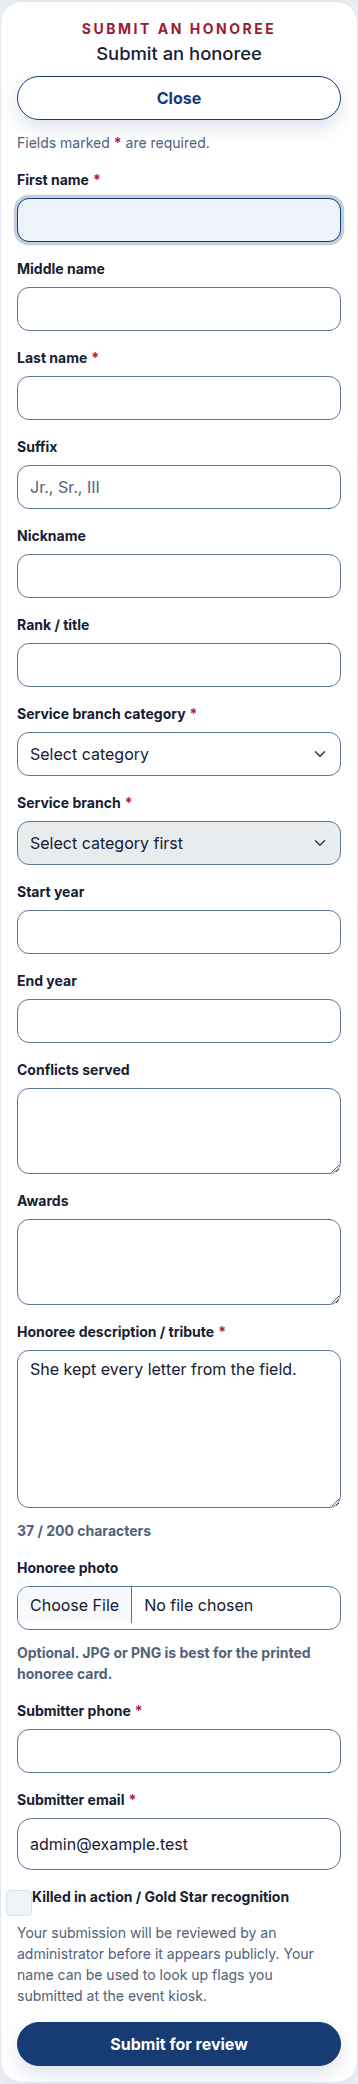
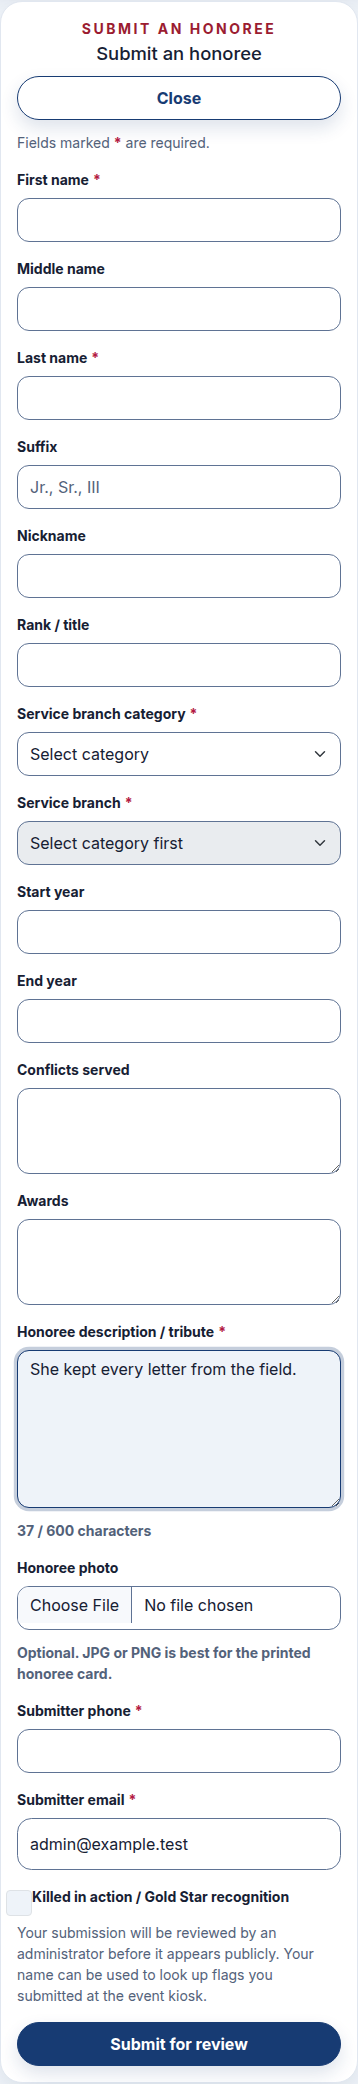
Set the honoree bio limit from all-caps prose.
600 is the largest multiple of 50 that fits all-caps prose with long words in 24 lines at 12pt, and it stays under the 650-character shrink. A word wider than the card box is wrapped when the card is drawn.

diff --git a/frontend/src/honoreeBio.ts b/frontend/src/honoreeBio.ts
@@ -1,5 +1,5 @@
 // Keep this equal to PFOH.Api.Models.HonoreeBioLimits.MaxLength.
-export const HONOREE_BIO_MAX_LENGTH = 200;
+export const HONOREE_BIO_MAX_LENGTH = 600;
 
 export function honoreeBioLimitMessage(max = HONOREE_BIO_MAX_LENGTH) {
   return `Bio must be ${max} characters or fewer.`;

diff --git a/backend/PFOH.Api.Tests/HonoreeCardPdfLayoutTests.cs b/backend/PFOH.Api.Tests/HonoreeCardPdfLayoutTests.cs
@@ -189,78 +189,81 @@ public class HonoreeCardPdfLayoutTests
         return ReadRuns(pdf);
     }
 
-    [Fact]
-    public void Bio_of_exactly_the_limit_in_worst_case_wide_characters_fits_the_card()
-    {
-        var tribute = WorstCaseWideBio(HonoreeBioLimits.MaxLength);
-        Assert.Equal(HonoreeBioLimits.MaxLength, tribute.Length);
-        Assert.False(char.IsWhiteSpace(tribute[^1]));
+    private const string AllCapsProse =
+        "THE FAMILY KEPT EVERY LETTER FROM THE FIELD AND READ THEM ON THE PORCH. ";
 
-        var pdf = RenderFullHeaderBytes(tribute);
-        var runs = ReadRuns(pdf);
-        var bio = BioRuns(runs, tribute);
-        Assert.Equal(tribute, string.Join(" ", bio.OrderByDescending(run => run.Y).ThenBy(run => run.X).Select(run => run.Text)));
-        Assert.All(bio, run => Assert.Equal(BioLeft, run.X, 1));
-        Assert.InRange(bio.Select(run => Math.Round(run.Y, 1)).Distinct().Count(), 1, 24);
-
-        using var measure = NewMeasure();
-        var font = new XFont("DejaVu Sans", 12, XFontStyle.Regular);
-        Assert.All(bio, run => Assert.True(measure.Gfx.MeasureString(run.Text, font).Width <= 214.5, run.Text));
-
-        var sizes = FontSizes(pdf);
-        Assert.Contains(sizes, size => size is "12" or "12.0" or "12.00");
-        Assert.DoesNotContain(sizes, size => size is "10.4" or "10.40" or "9.6" or "8.8" or "8.2" or "8.20");
-    }
+    private const string AllCapsHonors =
+        "SERGEANT JAMES ALLEY RECEIVED THE DISTINGUISHED FLYING CROSS, PURPLE HEART, AND BRONZE STAR. CAPTAIN SALVADOR GUZMAN SERVED WITH THE UNITED STATES ARMY AIR CORPS BESIDE LIEUTENANT MARGARET COLE. ";
 
     [Fact]
-    public void One_wide_character_past_the_measured_fit_is_clipped_and_the_limit_is_below_that()
+    public void Bio_of_exactly_the_limit_in_all_caps_prose_fits_without_shrinking()
     {
-        const int measuredFit = 248;
-        Assert.True(HonoreeBioLimits.MaxLength <= measuredFit - 48);
-        Assert.Equal(0, HonoreeBioLimits.MaxLength % 100);
+        Assert.Equal(0, HonoreeBioLimits.MaxLength % 50);
+        Assert.True(HonoreeBioLimits.MaxLength <= 650);
 
-        var fits = WorstCaseWideBio(measuredFit);
-        var overflows = WorstCaseWideBio(measuredFit + 1);
-        using var measure = NewMeasure();
-        var font = new XFont("DejaVu Sans", 12, XFontStyle.Regular);
-        var fitHeight = MeasureHeight(measure.Gfx, fits, font);
-        var overflowHeight = MeasureHeight(measure.Gfx, overflows, font);
-        Assert.True(fitHeight <= 345, fitHeight.ToString(CultureInfo.InvariantCulture));
-        Assert.True(overflowHeight > 345, overflowHeight.ToString(CultureInfo.InvariantCulture));
-
-        var prose = string.Concat(Enumerable.Repeat(
-            "The family kept every letter from the field and read them on the porch. ",
-            20))[..845];
-        Assert.True(MeasureHeight(measure.Gfx, prose, font) <= 345);
-        Assert.True(MeasureHeight(measure.Gfx, prose + "x", font) > 345);
-
-        var overflowRuns = ReadRuns(RenderFullHeaderBytes(overflows));
-        var shown = string.Join(" ", BioRuns(overflowRuns, overflows).OrderByDescending(run => run.Y).ThenBy(run => run.X).Select(run => run.Text));
-        Assert.Equal(overflows, shown);
-        var fitRuns = ReadRuns(RenderFullHeaderBytes(fits));
-        var name = Assert.Single(fitRuns, run => run.Text == Name);
-        var fitBio = BioRuns(fitRuns, fits);
-        var overflowBio = BioRuns(overflowRuns, overflows);
-        var fitSpan = fitBio.Max(run => run.Y) - fitBio.Min(run => run.Y);
-        var overflowSpan = overflowBio.Max(run => run.Y) - overflowBio.Min(run => run.Y);
-        var widestFit = fitBio.Max(run => measure.Gfx.MeasureString(run.Text, font).Width);
-        var widestOverflow = overflowBio.Max(run => measure.Gfx.MeasureString(run.Text, font).Width);
-        const double lineHeight = 13.969;
-        Assert.True(widestFit <= 214.5 && fitSpan + lineHeight <= 345, $"fit width {widestFit} span {fitSpan}");
-        Assert.True(widestOverflow > 214.5 || overflowSpan + lineHeight > 345, $"overflow width {widestOverflow} span {overflowSpan} nameY {name.Y}");
-        Assert.True(name.Y > overflowBio.Max(run => run.Y));
-    }
-
-    private static string WorstCaseWideBio(int length)
-    {
-        var unit = new string('W', 9) + " ";
-        var text = string.Concat(Enumerable.Repeat(unit, (length / unit.Length) + 2))[..length];
-        if (!char.IsWhiteSpace(text[^1]))
+        foreach (var unit in new[] { AllCapsHonors, AllCapsProse })
         {
-            return text;
+            var tribute = AllCapsPrefix(unit, HonoreeBioLimits.MaxLength);
+            Assert.Equal(HonoreeBioLimits.MaxLength, tribute.Length);
+            Assert.False(char.IsWhiteSpace(tribute[0]));
+            Assert.False(char.IsWhiteSpace(tribute[^1]));
+
+            var pdf = RenderFullHeaderBytes(tribute);
+            var runs = ReadRuns(pdf);
+            var bio = BioRuns(runs, tribute);
+            Assert.Equal(tribute, string.Join(" ", bio.OrderByDescending(run => run.Y).ThenBy(run => run.X).Select(run => run.Text)));
+            Assert.All(bio, run => Assert.Equal(BioLeft, run.X, 1));
+            Assert.InRange(bio.Select(run => Math.Round(run.Y, 1)).Distinct().Count(), 1, 24);
+
+            using var measure = NewMeasure();
+            var font = new XFont("DejaVu Sans", 12, XFontStyle.Regular);
+            Assert.All(bio, run => Assert.True(measure.Gfx.MeasureString(run.Text, font).Width <= 214.5, run.Text));
+            Assert.True(MeasureHeight(measure.Gfx, Repeat(unit, HonoreeBioLimits.MaxLength), font) <= 24 * 13.969 + 0.05);
+
+            var sizes = FontSizes(pdf);
+            Assert.Contains(sizes, size => size is "12" or "12.0" or "12.00");
+            Assert.DoesNotContain(sizes, size => size is "10.4" or "10.40" or "9.6" or "8.8" or "8.2" or "8.20");
+        }
+    }
+
+    [Fact]
+    public void All_caps_honors_one_step_past_the_no_shrink_boundary_exceeds_24_lines()
+    {
+        using var measure = NewMeasure();
+        var font = new XFont("DejaVu Sans", 12, XFontStyle.Regular);
+        var atLimit = MeasureHeight(measure.Gfx, Repeat(AllCapsHonors, HonoreeBioLimits.MaxLength), font);
+        var atShrinkBoundary = MeasureHeight(measure.Gfx, Repeat(AllCapsHonors, 650), font);
+        Assert.True(atLimit <= 24 * 13.969 + 0.05, atLimit.ToString(CultureInfo.InvariantCulture));
+        Assert.True(atShrinkBoundary > 24 * 13.969 + 0.05, atShrinkBoundary.ToString(CultureInfo.InvariantCulture));
+    }
+
+    [Fact]
+    public void A_word_wider_than_the_bio_box_is_hard_wrapped_instead_of_painting_past_it()
+    {
+        var tribute = new string('W', 40);
+        var runs = ReadRuns(RenderFullHeaderBytes(tribute));
+        var bio = runs.Where(run => run.Text.Length > 0 && run.Text.All(ch => ch == 'W')).ToList();
+        Assert.Equal(tribute.Length, bio.Sum(run => run.Text.Length));
+        Assert.True(bio.Count > 1, Dump(runs));
+        Assert.All(bio, run => Assert.Equal(BioLeft, run.X, 1));
+        using var measure = NewMeasure();
+        var font = new XFont("DejaVu Sans", 12, XFontStyle.Regular);
+        Assert.All(bio, run => Assert.True(measure.Gfx.MeasureString(run.Text, font).Width <= 214.5, Dump(runs)));
+    }
+
+    private static string Repeat(string unit, int length) =>
+        string.Concat(Enumerable.Repeat(unit, (length / unit.Length) + 2))[..length];
+
+    private static string AllCapsPrefix(string unit, int length)
+    {
+        var text = string.Concat(Enumerable.Repeat(unit, (length / unit.Length) + 3));
+        var slice = text[..length];
+        if (!char.IsWhiteSpace(slice[^1]))
+        {
+            return slice;
         }
 
-        return text.TrimEnd() + new string('W', length - text.TrimEnd().Length);
+        return slice[..^1] + text[length];
     }
 
     private static byte[] RenderFullHeaderBytes(string tribute)

diff --git a/backend/PFOH.Api/Services/HonoreeReportPdfGenerator.cs b/backend/PFOH.Api/Services/HonoreeReportPdfGenerator.cs
@@ -1,3 +1,4 @@
+using System.Text;
 using PdfSharpCore.Drawing;
 using PdfSharpCore.Drawing.Layout;
 using PdfSharpCore.Drawing.Layout.enums;
@@ -301,6 +302,12 @@ public static class HonoreeReportPdfGenerator
         };
 
         var font = Font(fontSize, false);
+        // The formatter wraps on spaces and does not break a token, so one
+        // unbroken word wider than the box would paint past the card. A space
+        // inserted in that word makes it wrap. A newline would not: the formatter
+        // keeps line-break blocks on the first line and draws them as spaces.
+        // The stored bio is unchanged.
+        description = BreakWideWords(gfx, description, font, ContentWidth);
         var rect = new XRect(ContentLeft, y, ContentWidth, BioBoxHeight);
         var formatter = new XTextFormatter(gfx);
         // The short DrawString overload full-justifies every line and ignores Alignment,
@@ -488,6 +495,78 @@ public static class HonoreeReportPdfGenerator
                 });
             lineY += lineHeight;
         }
+    }
+
+    private static string BreakWideWords(XGraphics gfx, string text, XFont font, double maxWidth)
+    {
+        var builder = new StringBuilder(text.Length);
+        var changed = false;
+        var index = 0;
+        while (index < text.Length)
+        {
+            if (char.IsWhiteSpace(text[index]))
+            {
+                builder.Append(text[index]);
+                index++;
+                continue;
+            }
+
+            var start = index;
+            while (index < text.Length && !char.IsWhiteSpace(text[index]))
+            {
+                index++;
+            }
+
+            var word = text.AsSpan(start, index - start);
+            if (gfx.MeasureString(word.ToString(), font).Width <= maxWidth)
+            {
+                builder.Append(word);
+                continue;
+            }
+
+            changed = true;
+            var offset = 0;
+            while (offset < word.Length)
+            {
+                var count = FittedPrefix(gfx, font, word[offset..], maxWidth);
+                if (offset > 0)
+                {
+                    builder.Append(' ');
+                }
+
+                builder.Append(word.Slice(offset, count));
+                offset += count;
+            }
+        }
+
+        return changed ? builder.ToString() : text;
+    }
+
+    private static int FittedPrefix(XGraphics gfx, XFont font, ReadOnlySpan<char> word, double maxWidth)
+    {
+        if (word.Length <= 1)
+        {
+            return Math.Max(word.Length, 1);
+        }
+
+        var low = 1;
+        var high = word.Length;
+        var fit = 1;
+        while (low <= high)
+        {
+            var mid = (low + high) / 2;
+            if (gfx.MeasureString(word[..mid].ToString(), font).Width <= maxWidth)
+            {
+                fit = mid;
+                low = mid + 1;
+            }
+            else
+            {
+                high = mid - 1;
+            }
+        }
+
+        return fit;
     }
 
     private static double MeasureLeftBlock(XGraphics gfx, string text, XFont font, double width)

diff --git a/backend/PFOH.Api/Models/HonoreeBioLimits.cs b/backend/PFOH.Api/Models/HonoreeBioLimits.cs
@@ -4,15 +4,14 @@ namespace PFOH.Api.Models;
 /// Character cap for an honoree bio (the Description field).
 /// Measured for the printed card in <c>HonoreeReportPdfGenerator</c>:
 /// DejaVu Sans 12pt in a 214 by 345 point box. Twenty-four lines fit
-/// (line height 13.969pt, 335.25pt) and a twenty-fifth line (349.22pt) does not.
-/// Text longer than 650 characters shrinks the font, so this cap stays below that.
-/// Typical prose fits 845 characters at 12pt. Words of nine W's, the widest
-/// Latin letter that still wraps inside the box, fit 248 characters and clip at 249.
-/// 248 is rounded down to 200. There is no database length change.
+/// (line height 13.969pt, 335.25pt). Text longer than 650 characters shrinks.
+/// All-caps prose with long words and names fits 625 characters in 24 lines.
+/// 600 is the largest multiple of 50 at or under both that fit and 650.
+/// There is no database length change.
 /// </summary>
 public static class HonoreeBioLimits
 {
-    public const int MaxLength = 200;
+    public const int MaxLength = 600;
 
-    public const string TooLongMessage = "Bio must be 200 characters or fewer.";
+    public const string TooLongMessage = "Bio must be 600 characters or fewer.";
 }

diff --git a/CHANGELOG.md b/CHANGELOG.md
@@ -2,8 +2,9 @@
 
 ## 5.8.1
 
-- The honoree bio, the Description field, is limited to 200 characters. That length fits in the printed card bio area at 12 point DejaVu Sans without shrinking or clipping, rounded down from the measured fit of 248 wide characters. The nomination form, a suggested change, and an administrator edit show a live count, "123 / 200 characters", and the server refuses a longer bio with "Bio must be 200 characters or fewer."
-- A bio already stored above 200 characters is not cut. An administrator edit shows the full text, the count in an over-limit state, and "Bio must be shortened to 200 characters before saving." Saving is refused until the bio is shortened. Approving a pending request that already has a longer bio still succeeds and keeps the full text.
+- The honoree bio, the Description field, is limited to 600 characters. That is the largest multiple of 50 that fits all-caps prose, including long words and names, in the printed card bio area at 12 point DejaVu Sans within 24 lines, and it stays under the 650 character size where the card would shrink the type. The nomination form, a suggested change, and an administrator edit show a live count, "123 / 600 characters", and the server refuses a longer bio with "Bio must be 600 characters or fewer."
+- A bio already stored above 600 characters is not cut. An administrator edit shows the full text, the count in an over-limit state, and "Bio must be shortened to 600 characters before saving." Saving is refused until the bio is shortened. Approving a pending request that already has a longer bio still succeeds and keeps the full text.
+- A single word wider than the card bio box is broken onto the next line when the card is drawn. The stored bio is not changed.
 - There is no database change. docs/sql/bio-over-limit-count.sql is a read-only count of honorees and pending requests over the limit.
 
 ## 5.8.0
